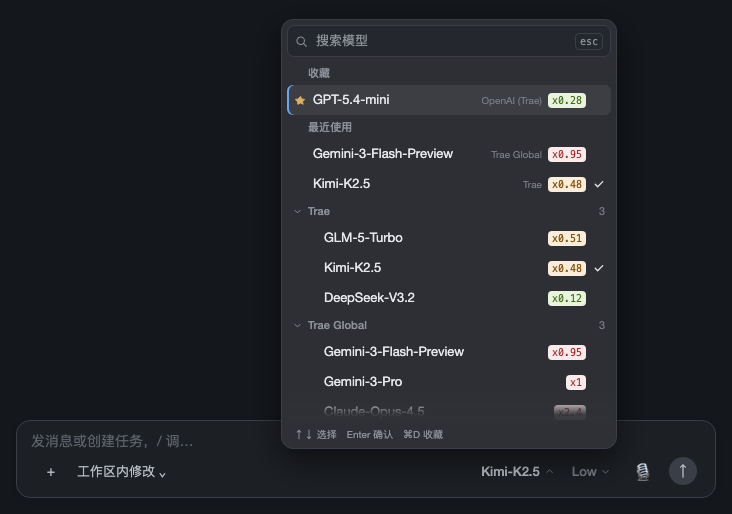
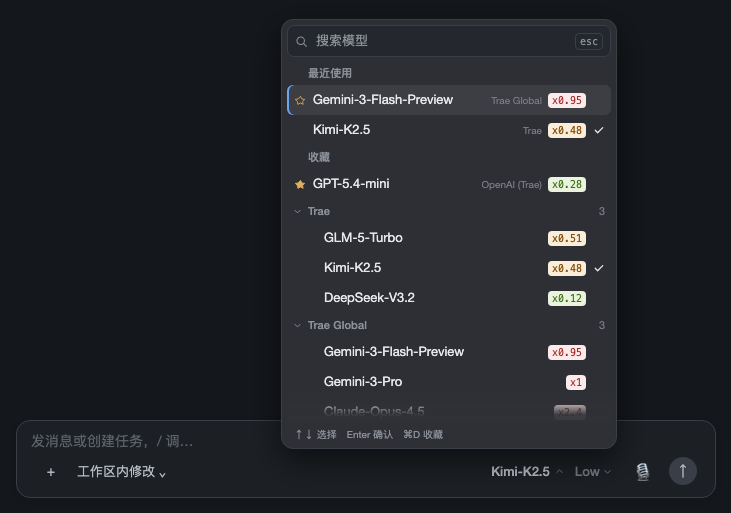
fix: 窄窗保留模型名、最近使用前置、两个控件靠拢

diff --git a/dist/client.js b/dist/client.js
@@ -269,17 +269,18 @@ function buildView(state, prefs, query) {
     }
   }
 
+  // Recents sit above favorites: the model just used is the likeliest next pick.
   const sections = []
-  const favoriteRows = prefs.favorites.map(key => byKey.get(key)).filter(row => row !== undefined)
-  if (favoriteRows.length > 0) {
-    sections.push({ kind: 'favorites', id: '__favorites', name: 'favorites', rows: favoriteRows, collapsed: false, count: favoriteRows.length })
-  }
   const recentRows = prefs.recents
     .map(row => byKey.get(row.key))
     .filter(row => row !== undefined && !favorites.has(row.key))
     .slice(0, RECENTS_SHOWN)
   if (recentRows.length > 0) {
     sections.push({ kind: 'recents', id: '__recents', name: 'recents', rows: recentRows, collapsed: false, count: recentRows.length })
+  }
+  const favoriteRows = prefs.favorites.map(key => byKey.get(key)).filter(row => row !== undefined)
+  if (favoriteRows.length > 0) {
+    sections.push({ kind: 'favorites', id: '__favorites', name: 'favorites', rows: favoriteRows, collapsed: false, count: favoriteRows.length })
   }
   for (const group of groups) {
     const rows = rowsByGroup.get(group.id) ?? []
@@ -401,17 +402,18 @@ function withCollapsed(prefs, groupId, collapsed) {
     const t = key => copy[key] ?? COPY.zh[key] ?? key
 
     const css = `
-.qms-root{position:relative;display:flex;align-items:center;gap:6px;flex:0 0 auto;min-width:0}
-.qms-trigger{display:flex;align-items:center;gap:4px;min-width:0;max-width:220px;height:28px;padding:0 5px 0 8px;border:none;border-radius:24px;outline:none;background:transparent;color:var(--dsw-alias-label-secondary,#5f6368);font-family:inherit;font-size:13px;font-weight:500;line-height:20px;cursor:pointer}
+.qms-root{position:relative;display:flex;align-items:center;gap:2px;flex:0 0 auto;min-width:0}
+.qms-trigger{display:flex;align-items:center;gap:4px;min-width:0;max-width:220px;height:28px;padding:0 4px 0 8px;border:none;border-radius:24px;outline:none;background:transparent;color:var(--dsw-alias-label-secondary,#5f6368);font-family:inherit;font-size:13px;font-weight:500;line-height:20px;cursor:pointer}
 .qms-trigger:hover:not(:disabled){background:var(--dsw-alias-interactive-bg-hover,rgba(0,0,0,.05))}
 .qms-trigger:focus-visible{box-shadow:0 0 0 2px var(--dsw-alias-border-l3,#c7cbd1)}
 .qms-trigger:disabled{color:var(--dsw-alias-label-dimmed,#a8adb5);cursor:default}
-.qms-trigger-label{display:var(--dsh-composer-model-text-display,block);min-width:0;overflow:hidden;text-overflow:ellipsis;white-space:nowrap}
-.qms-trigger-icon{display:var(--dsh-composer-model-icon-display,none);flex:0 0 auto;line-height:0}
+.qms-trigger-label{display:block;min-width:0;overflow:hidden;text-overflow:ellipsis;white-space:nowrap}
+/* 窄行里保留模型名（超出用省略号），只把宽度收紧一点；图标不再顶替文字。 */
+@container (width<=560px){.qms-trigger{max-width:150px}.qms-trigger-label{max-width:150px}}
 /* 推理强度是模型按钮旁边的独立控件：各自 hover、各自点击、各自开自己的弹层。
-   控制行排不下一行时宿主会置 --dsh-composer-model-text-display:none，它与模型文字一起收起。 */
+   控制行排不下一行时宿主会置 --dsh-composer-model-text-display:none，强度按钮收起，退回模型菜单底部。 */
 .qms-effort{display:var(--dsh-composer-model-text-display,block);flex:0 0 auto}
-.qms-effort-btn{display:flex;align-items:center;gap:3px;height:28px;padding:0 6px;border:none;border-radius:24px;outline:none;background:transparent;color:var(--dsw-alias-label-caption,#8a8f98);font-family:inherit;font-size:13px;font-weight:500;line-height:20px;white-space:nowrap;cursor:pointer}
+.qms-effort-btn{display:flex;align-items:center;gap:2px;height:28px;padding:0 4px;border:none;border-radius:24px;outline:none;background:transparent;color:var(--dsw-alias-label-caption,#8a8f98);font-family:inherit;font-size:13px;font-weight:500;line-height:20px;white-space:nowrap;cursor:pointer}
 .qms-effort-btn:hover:not(:disabled){background:var(--dsw-alias-interactive-bg-hover,rgba(0,0,0,.05))}
 .qms-effort-btn:focus-visible{box-shadow:0 0 0 2px var(--dsw-alias-border-l3,#c7cbd1)}
 .qms-effort-btn:disabled{cursor:default;color:var(--dsw-alias-label-dimmed,#a8adb5)}
@@ -524,10 +526,6 @@ function withCollapsed(prefs, groupId, collapsed) {
         strokeWidth: 1.2,
         strokeLinejoin: 'round',
       }))
-    /** Compact trigger glyph: shown instead of the labels when the composer row is tight. */
-    const ModelIcon = () => h('svg', { width: 14, height: 14, viewBox: '0 0 16 16', fill: 'none', 'aria-hidden': true },
-      h('path', { d: 'M8 1.6l1.6 4.4 4.4 1.6-4.4 1.6L8 13.6 6.4 9.2 2 7.6l4.4-1.6z', fill: 'currentColor' }))
-
     /**
      * One selectable model row: star · name · optional provider tag · multiplier · check.
      *
@@ -996,7 +994,6 @@ function withCollapsed(prefs, groupId, collapsed) {
             load()
           },
         },
-          h('span', { className: 'qms-trigger-icon', 'aria-hidden': true }, h(ModelIcon)),
           h('span', { className: 'qms-trigger-label' }, modelLabel),
           h(ChevronIcon, { open: open === 'models' })),
 

diff --git a/src/client.template.js b/src/client.template.js
@@ -85,17 +85,18 @@ window.__ModuleLoader__.load({
     const t = key => copy[key] ?? COPY.zh[key] ?? key
 
     const css = `
-.qms-root{position:relative;display:flex;align-items:center;gap:6px;flex:0 0 auto;min-width:0}
-.qms-trigger{display:flex;align-items:center;gap:4px;min-width:0;max-width:220px;height:28px;padding:0 5px 0 8px;border:none;border-radius:24px;outline:none;background:transparent;color:var(--dsw-alias-label-secondary,#5f6368);font-family:inherit;font-size:13px;font-weight:500;line-height:20px;cursor:pointer}
+.qms-root{position:relative;display:flex;align-items:center;gap:2px;flex:0 0 auto;min-width:0}
+.qms-trigger{display:flex;align-items:center;gap:4px;min-width:0;max-width:220px;height:28px;padding:0 4px 0 8px;border:none;border-radius:24px;outline:none;background:transparent;color:var(--dsw-alias-label-secondary,#5f6368);font-family:inherit;font-size:13px;font-weight:500;line-height:20px;cursor:pointer}
 .qms-trigger:hover:not(:disabled){background:var(--dsw-alias-interactive-bg-hover,rgba(0,0,0,.05))}
 .qms-trigger:focus-visible{box-shadow:0 0 0 2px var(--dsw-alias-border-l3,#c7cbd1)}
 .qms-trigger:disabled{color:var(--dsw-alias-label-dimmed,#a8adb5);cursor:default}
-.qms-trigger-label{display:var(--dsh-composer-model-text-display,block);min-width:0;overflow:hidden;text-overflow:ellipsis;white-space:nowrap}
-.qms-trigger-icon{display:var(--dsh-composer-model-icon-display,none);flex:0 0 auto;line-height:0}
+.qms-trigger-label{display:block;min-width:0;overflow:hidden;text-overflow:ellipsis;white-space:nowrap}
+/* 窄行里保留模型名（超出用省略号），只把宽度收紧一点；图标不再顶替文字。 */
+@container (width<=560px){.qms-trigger{max-width:150px}.qms-trigger-label{max-width:150px}}
 /* 推理强度是模型按钮旁边的独立控件：各自 hover、各自点击、各自开自己的弹层。
-   控制行排不下一行时宿主会置 --dsh-composer-model-text-display:none，它与模型文字一起收起。 */
+   控制行排不下一行时宿主会置 --dsh-composer-model-text-display:none，强度按钮收起，退回模型菜单底部。 */
 .qms-effort{display:var(--dsh-composer-model-text-display,block);flex:0 0 auto}
-.qms-effort-btn{display:flex;align-items:center;gap:3px;height:28px;padding:0 6px;border:none;border-radius:24px;outline:none;background:transparent;color:var(--dsw-alias-label-caption,#8a8f98);font-family:inherit;font-size:13px;font-weight:500;line-height:20px;white-space:nowrap;cursor:pointer}
+.qms-effort-btn{display:flex;align-items:center;gap:2px;height:28px;padding:0 4px;border:none;border-radius:24px;outline:none;background:transparent;color:var(--dsw-alias-label-caption,#8a8f98);font-family:inherit;font-size:13px;font-weight:500;line-height:20px;white-space:nowrap;cursor:pointer}
 .qms-effort-btn:hover:not(:disabled){background:var(--dsw-alias-interactive-bg-hover,rgba(0,0,0,.05))}
 .qms-effort-btn:focus-visible{box-shadow:0 0 0 2px var(--dsw-alias-border-l3,#c7cbd1)}
 .qms-effort-btn:disabled{cursor:default;color:var(--dsw-alias-label-dimmed,#a8adb5)}
@@ -208,10 +209,6 @@ window.__ModuleLoader__.load({
         strokeWidth: 1.2,
         strokeLinejoin: 'round',
       }))
-    /** Compact trigger glyph: shown instead of the labels when the composer row is tight. */
-    const ModelIcon = () => h('svg', { width: 14, height: 14, viewBox: '0 0 16 16', fill: 'none', 'aria-hidden': true },
-      h('path', { d: 'M8 1.6l1.6 4.4 4.4 1.6-4.4 1.6L8 13.6 6.4 9.2 2 7.6l4.4-1.6z', fill: 'currentColor' }))
-
     /**
      * One selectable model row: star · name · optional provider tag · multiplier · check.
      *
@@ -680,7 +677,6 @@ window.__ModuleLoader__.load({
             load()
           },
         },
-          h('span', { className: 'qms-trigger-icon', 'aria-hidden': true }, h(ModelIcon)),
           h('span', { className: 'qms-trigger-label' }, modelLabel),
           h(ChevronIcon, { open: open === 'models' })),
 

diff --git a/test/render.test.js b/test/render.test.js
@@ -208,23 +208,25 @@ test('the effort picker is its own popover, not a page inside the model list', {
 
 test('the trigger honours the composer row compact contract', async () => {
   const source = await readFile(bundleUrl, 'utf8')
-  // The composer row measures "would the expanded controls fit on one line?",
-  // then sets data-model-compact, which flips these two variables. An occupant
-  // that ignores them keeps the full text and forces the row to wrap.
-  assert.match(source, /--dsh-composer-model-text-display/, 'labels must collapse when the row is compact')
-  assert.match(source, /--dsh-composer-model-icon-display/, 'an icon must take over when the row is compact')
+  // The composer row measures "would the expanded controls fit on one line?"
+  // and sets data-model-compact, which flips these two variables. The model
+  // name stays readable (ellipsis), so only the effort control folds away.
+  assert.match(source, /--dsh-composer-model-text-display/, 'the effort control collapses with the row')
   assert.ok(
-    /display:var\(--dsh-composer-model-text-display/.test(source)
-      && /display:var\(--dsh-composer-model-icon-display/.test(source),
-    'the variables must actually be consumed, not merely declared',
+    /display:var\(--dsh-composer-model-text-display/.test(source),
+    'the variable must actually be consumed, not merely declared',
+  )
+  assert.ok(
+    !/qms-trigger-label\{display:var\(--dsh-composer-model-text-display/.test(source),
+    'the model name must not be hidden by the compact contract',
   )
 })
 
-test('the trigger carries a compact icon alongside the labels', { skip }, async () => {
+test('the trigger keeps the model name in narrow rows instead of an icon', { skip }, async () => {
   const { entry } = await mount()
   const html = server.renderToString(React.createElement(entry.component, { ...entry.options.inject('session-1'), locked: false }))
-  assert.match(html, /qms-trigger-icon/)
   assert.match(html, /qms-trigger-label/)
+  assert.ok(!html.includes('qms-trigger-icon'), 'the name is never replaced by a glyph')
 })
 
 test('the model picker carries no effort surface', { skip }, async () => {

diff --git a/src/logic.js b/src/logic.js
@@ -242,17 +242,18 @@ export function buildView(state, prefs, query) {
     }
   }
 
+  // Recents sit above favorites: the model just used is the likeliest next pick.
   const sections = []
-  const favoriteRows = prefs.favorites.map(key => byKey.get(key)).filter(row => row !== undefined)
-  if (favoriteRows.length > 0) {
-    sections.push({ kind: 'favorites', id: '__favorites', name: 'favorites', rows: favoriteRows, collapsed: false, count: favoriteRows.length })
-  }
   const recentRows = prefs.recents
     .map(row => byKey.get(row.key))
     .filter(row => row !== undefined && !favorites.has(row.key))
     .slice(0, RECENTS_SHOWN)
   if (recentRows.length > 0) {
     sections.push({ kind: 'recents', id: '__recents', name: 'recents', rows: recentRows, collapsed: false, count: recentRows.length })
+  }
+  const favoriteRows = prefs.favorites.map(key => byKey.get(key)).filter(row => row !== undefined)
+  if (favoriteRows.length > 0) {
+    sections.push({ kind: 'favorites', id: '__favorites', name: 'favorites', rows: favoriteRows, collapsed: false, count: favoriteRows.length })
   }
   for (const group of groups) {
     const rows = rowsByGroup.get(group.id) ?? []

diff --git a/test/logic.test.js b/test/logic.test.js
@@ -71,13 +71,13 @@ test('queryTerms splits on whitespace and lowercases', () => {
   assert.deepEqual(queryTerms(null), [])
 })
 
-test('buildView shows favorites and recents ahead of provider groups', () => {
+test('buildView shows recents and favorites ahead of provider groups', () => {
   const groups = [group('trae', 'Trae', [model('kimi', 'Kimi-K2.5'), model('glm', 'GLM-5-Turbo')])]
   const prefs = withRecent(withFavorite(emptyPrefs(), 'trae/glm'), 'trae/kimi')
   const view = buildView(state(groups, { provider: 'trae', model: 'glm' }), prefs, '')
-  assert.deepEqual(view.sections.map(section => section.kind), ['favorites', 'recents', 'group'])
-  assert.equal(view.sections[0].rows[0].key, 'trae/glm')
-  assert.equal(view.sections[1].rows[0].key, 'trae/kimi')
+  assert.deepEqual(view.sections.map(section => section.kind), ['recents', 'favorites', 'group'])
+  assert.equal(view.sections[0].rows[0].key, 'trae/kimi')
+  assert.equal(view.sections[1].rows[0].key, 'trae/glm')
   assert.equal(view.sections[2].collapsed, false)
   assert.equal(view.rows.length, 4)
 })

diff --git a/README.md b/README.md
@@ -2,32 +2,33 @@
 
 [English](README.en.md) · 中文
 
-接管 DSH 输入框右下角的模型座位：把按 provider 平铺的长列表换成搜索优先的面板，收藏与最近使用置顶，模型多的 provider 折叠收起；推理强度是旁边独立的第二个控件。适合接了几十上百个模型、翻列表翻到烦的场景。
+**模型越来越多，切换不该越来越麻烦。**
 
-输入框右下角是两个各自独立的控件，各有各的点击区域和弹层：
+接入了好几个 provider，模型列表越拉越长；明明只想换回刚才那个，却又得从头翻一遍。
 
-![输入框两个控件](docs/images/composer.png)
+快捷模型选择器让 DSH 里的模型更好找：刚用过的就在最上面，常用的收藏紧随其后，想找哪个就输入几个字。少翻列表，把注意力留给眼前的对话。
 
 ![模型面板](docs/images/menu.png)
 
-## 功能
+## 用起来有什么不同？
 
-- **搜索优先**：打开即聚焦搜索框，输入即过滤，模型名、provider 名、模型 id 一起匹配，多个关键词用空格分隔（AND）。
-- **收藏与最近使用**：常用的几个模型永远置顶。
-- **分组折叠**：超过 6 个模型的 provider 默认折叠；含当前选中模型、含收藏的组自动展开，手动折叠状态会记住。
-- **倍率角标**：模型名里的 `x0.28` 剥出来做成行尾角标，≤0.3 绿、≤0.8 琥珀、>0.8 红。
-- **推理强度独立**：单独按钮、单独弹层、单独收焦点；当前模型不支持 reasoning 时按钮直接不渲染。
-- **键盘快选**：`⌘1–⌘9` 直选、`⌘D` 收藏、`Tab` 折叠、方向键 + Enter。
+- **想找哪个，直接打字**：打开就能搜，输入模型名或 provider 名即可缩小范围，不必挨个展开分组。
+- **常用的，不用反复找**：最近使用和收藏都置顶，刚用过的排在最前，换回上一个模型只需点一下。
+- **模型再多，也有条理**：超过 6 个模型的 provider 默认收起，当前模型和收藏所在的组保持展开；你手动调整的折叠状态也会记住。
+- **倍率不用藏在长名字里**：`x0.28` 这类倍率单独显示为彩色角标，扫一眼就能分辨。
+- **换模型、调推理，各管各的**：推理强度有独立按钮，不必在模型列表里来回找；不支持时自动隐藏。
+- **手不离键盘，也能切换**：方向键选、Enter 确认，`⌘1–⌘9` 快选、`⌘D` 收藏（也支持 Ctrl）。
+- **窗口变窄，也看得清是哪个模型**：模型名始终保留，过长用省略号收尾；推理强度按钮收起，挪进模型菜单底部。
 
 ![搜索](docs/images/search.png)
 
 ![推理强度](docs/images/effort.png)
 
-控制行窄到放不下两个控件时，模型按钮换成图标、强度收进菜单底部一行：
+窗口变窄时保留模型名，推理强度收进菜单：
 
-![窄宽度触发器](docs/images/compact.png)
+![窄窗口](docs/images/compact.png)
 
-![窄宽度菜单](docs/images/compact-menu.png)
+![窄窗口菜单](docs/images/compact-menu.png)
 
 深色主题同一套排版：
 

diff --git a/README.en.md b/README.en.md
@@ -4,30 +4,27 @@ English · [中文](README.md)
 
 Takes over the model seat at the bottom right of the DSH composer: instead of one long flat list of every provider, you get a search-first panel with favorites and recents pinned on top, collapsed provider groups, and reasoning effort as a separate second control. Built for setups with dozens or hundreds of models.
 
-The composer has two independent controls, each with its own hit area and popover:
-
-![Two controls in the composer](docs/images/composer.png)
-
 ![Model panel](docs/images/menu.png)
 
 ## Features
 
 - **Search first** — the panel opens with the cursor in the search box. Matching covers model name, provider name and model id; space-separated terms are ANDed.
-- **Favorites and recents** — your handful of everyday models stay at the top.
+- **Recents, then favorites** — what you just used sits at the very top, favorites right below it.
 - **Collapsible groups** — providers with more than six models start collapsed; the group holding the current model or a favorite stays open, and manual folding is remembered.
 - **Multiplier badges** — an `x0.28` token in the model name becomes a row-end badge, colored ≤0.3 green, ≤0.8 amber, >0.8 red.
 - **Separate reasoning effort** — its own button, popover and focus; hidden entirely when the current model has no reasoning support.
 - **Keyboard** — `⌘1–⌘9` quick pick, `⌘D` favorite, `Tab` fold, arrows plus Enter.
+- **Narrow rows keep the name** — the model name is never swapped for a glyph; it ellipsizes instead, and the effort control folds into the bottom of the menu.
 
 ![Search](docs/images/search.png)
 
 ![Reasoning effort](docs/images/effort.png)
 
-When the control row cannot fit two controls, the model button becomes an icon and effort moves to a row at the bottom of the menu:
+Narrow rows keep the model name and fold effort into the menu:
 
-![Narrow trigger](docs/images/compact.png)
+![Narrow row](docs/images/compact.png)
 
-![Narrow menu](docs/images/compact-menu.png)
+![Narrow row menu](docs/images/compact-menu.png)
 
 Same layout in dark theme:
 
